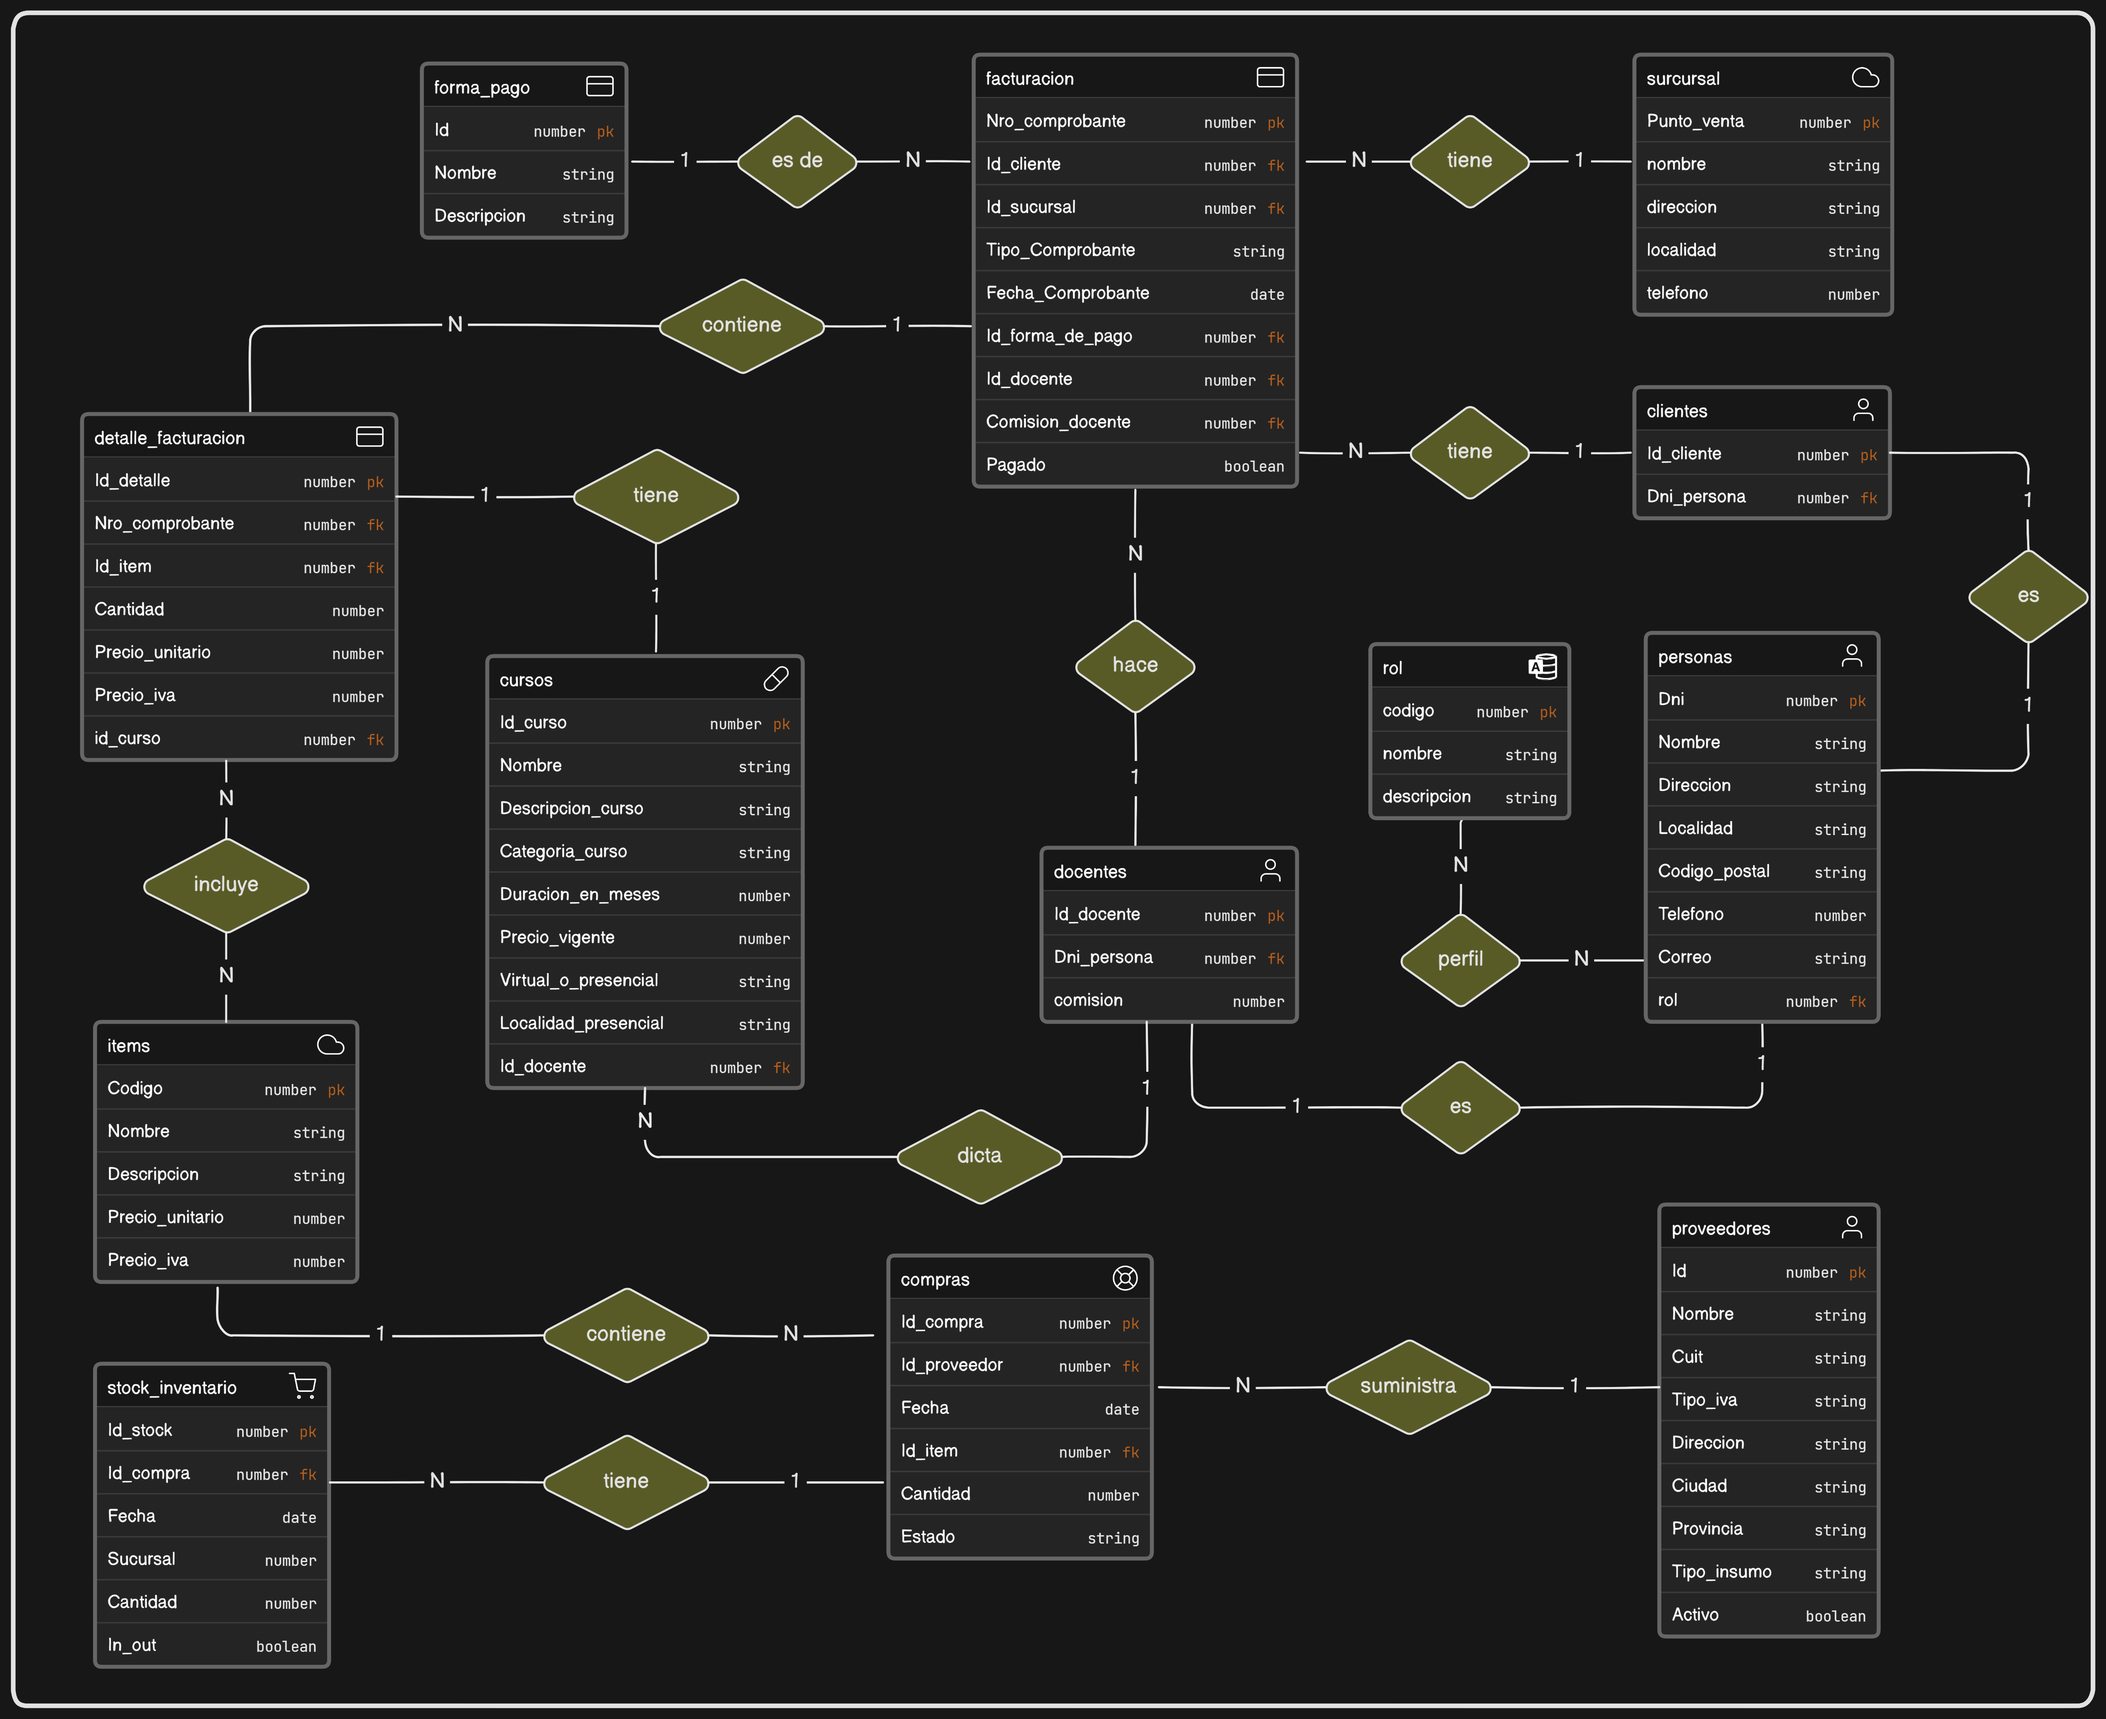
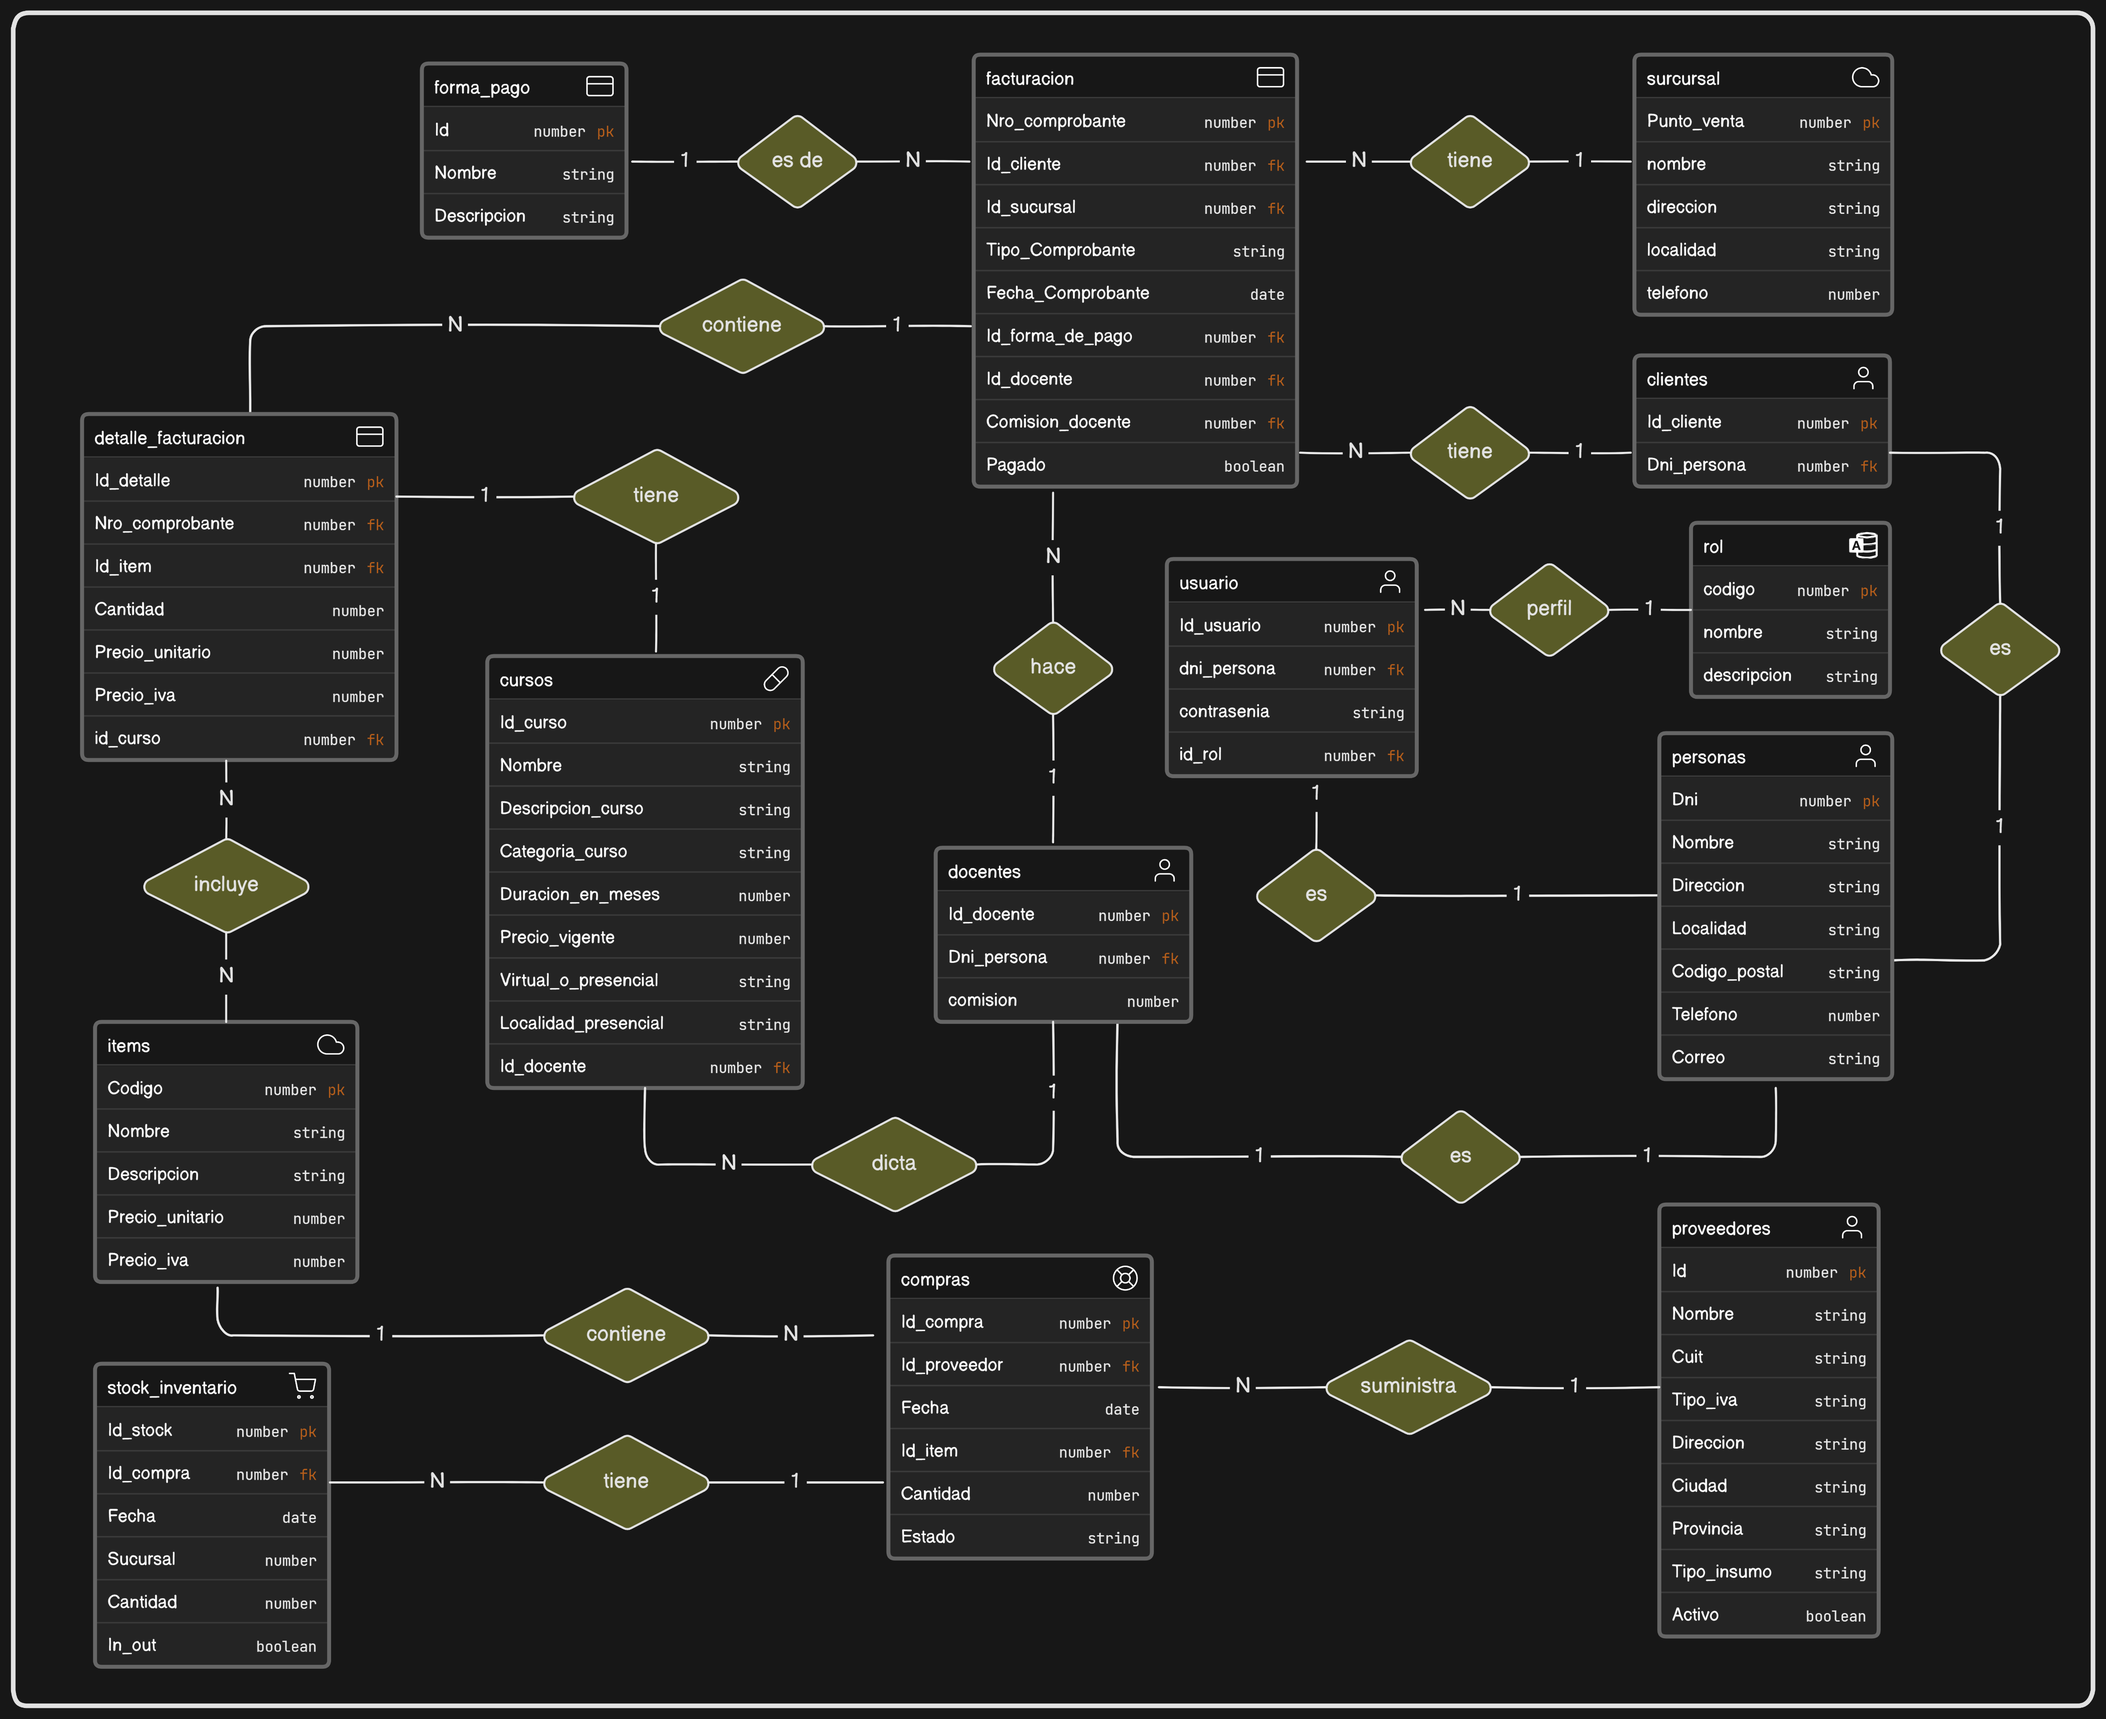
correccion der y normalizacion

diff --git a/Normalizacion.md b/Normalizacion.md
@@ -12,7 +12,9 @@
 
 - SUCURSAL(__Punto_venta (PK natural)__,nombre,direccion,localidad,telefono)
 
-- PERSONAS(__Dni (PK natural)__, Nombre, Direccion, Localidad, Codigo_postal, Telefono, Correo, **rol**)
+- PERSONAS(__Dni (PK natural)__, Nombre, Direccion, Localidad, Codigo_postal, Telefono, Correo)
+
+- USUARIO(__id_usuario (PK)__, **dni_persona**, contrasenia, **id_rol**)
 
 - PROVEEDORES(__Id (PK)__, Nombre, Cuit, Tipo_iva, Direccion, Ciudad, Provincia, Tipo_insumo, Activo)
 
